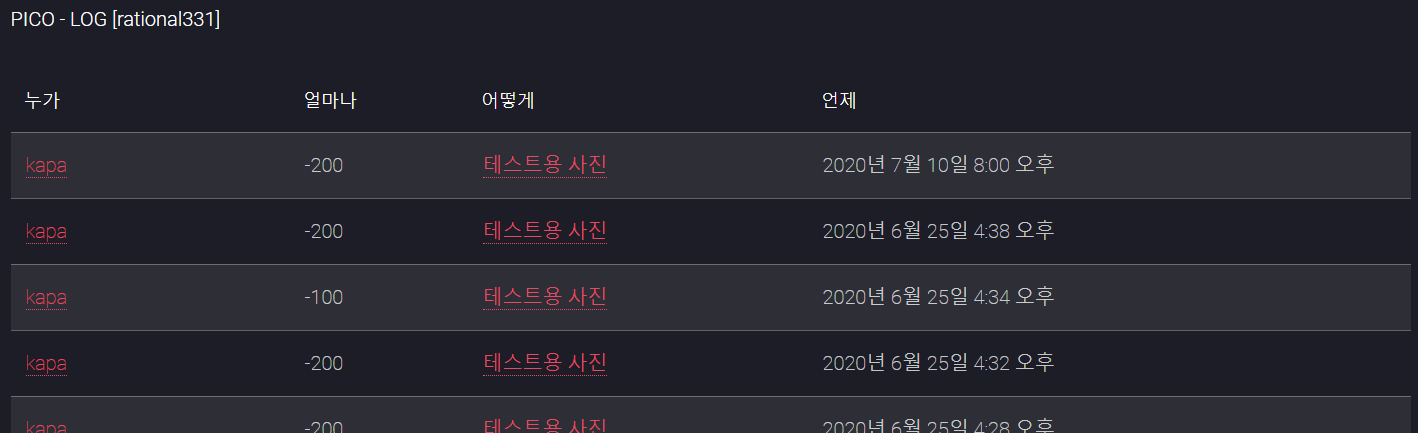
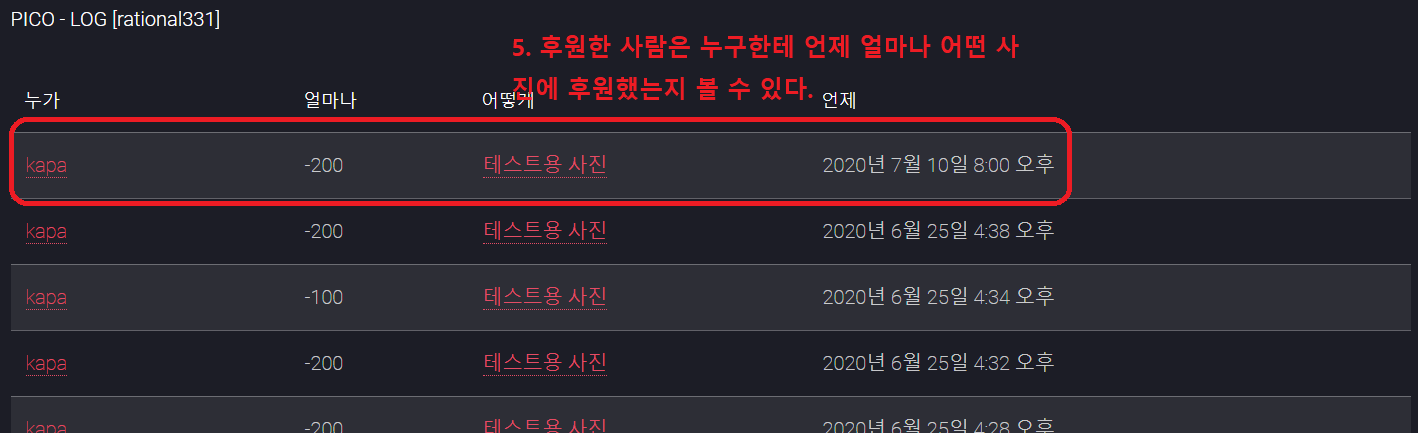
photo update

Changed region(s): [[0.0, 0.2702, 0.7757, 0.4804], [0.3413, 0.06, 0.7137, 0.1501], [0.3413, 0.1801, 0.5896, 0.2402]]

diff --git a/README.md b/README.md
@@ -7,9 +7,9 @@
 <img src="pico_readme/cap2.PNG" width="100%" height="100%" title="model" alt="Base Model"></img>
 
 ## 후원 예시
-ㅇㅇㅇㅇㅇ
+1. 후원하기 버튼은 자신의 사진이 아니면 후원버튼이 활성화된다.
 <img src="pico_readme/cap3.PNG" width="100%" height="100%" title="model" alt="Base Model"></img>
-ㅇㅇㅇㅇㅇ
+2. ㅇㅇㅇㅇㅇ
 <img src="pico_readme/cap4.PNG" width="100%" height="100%" title="model" alt="Base Model"></img>
 ㅇㅇㅇㅇㅇ
 <img src="pico_readme/cap5.PNG" width="100%" height="100%" title="model" alt="Base Model"></img>
